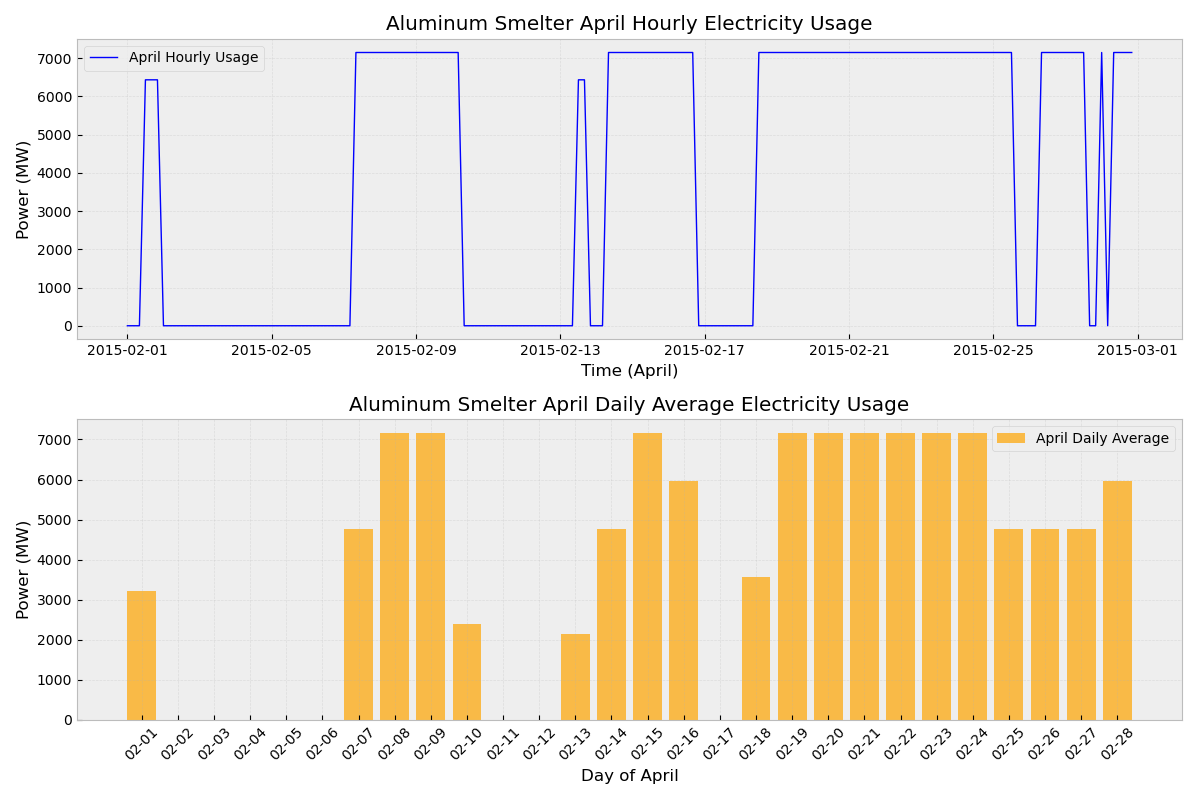
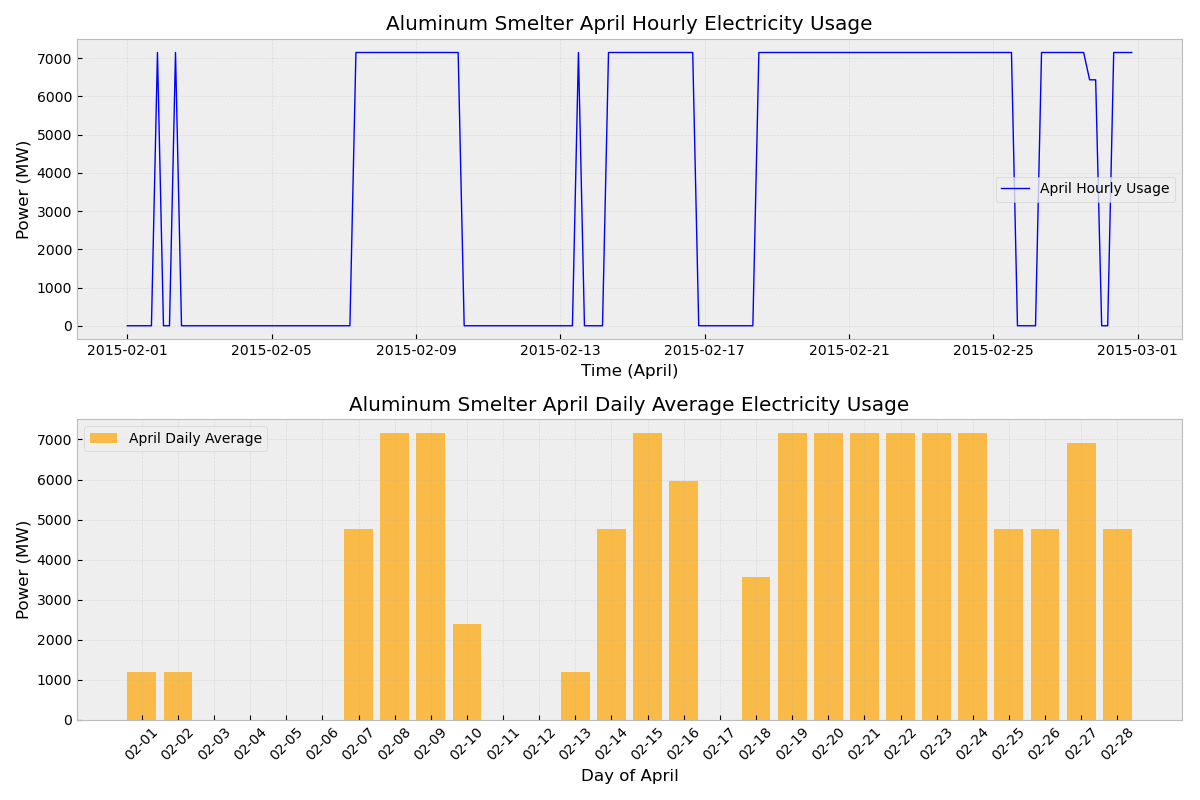
更新到0.27.1

diff --git a/examples/scripts/capacity_expansion_planning_pmin.py b/examples/scripts/capacity_expansion_planning_pmin.py
@@ -1,4 +1,5 @@
-# capacity_expansion_planning.py
+# capacity_expansion_planning_pmin_fixed.py
+# 修复版本兼容性问题的脚本
 
 import matplotlib.pyplot as plt
 import pandas as pd
@@ -234,14 +235,9 @@ def add_other_components(n, al_p_nom, p_min_pu):
         p_nom=al_p_nom,  # 使用计算得到的容量, MW
         efficiency=1, 
         # capital_cost=CONFIG["al_capital_cost"] * al_p_nom, # $  
-        start_up_cost=CONFIG["al_start_up_cost"] * al_p_nom, # $
-        start_up_time=24,  # 设置为24小时，使每24小时共享一个启停决策变量
+        start_up_cost=0*CONFIG["al_start_up_cost"] * al_p_nom, # $
         committable=True,
         p_min_pu=p_min_pu,
-        ramp_limit_up=1.0,  # 添加爬坡限制
-        ramp_limit_down=1.0,  # 添加爬坡限制
-        ramp_limit_start_up=1.0,  # 添加爬坡限制
-        ramp_limit_shut_down=1.0,  # 添加爬坡限制
     )
     print(CONFIG["al_start_up_cost"] * al_p_nom)
     print(CONFIG["al_start_up_cost"], al_p_nom)
@@ -265,6 +261,35 @@ def add_other_components(n, al_p_nom, p_min_pu):
         sense="<=",
         constant=CONFIG["al_co2_limit"], # kgCO2/MW/year -> kgCO2/MW/hour
     )
+
+def safe_optimize(n, solver_name, solver_options):
+    """安全地执行优化，处理版本兼容性问题"""
+    try:
+        # 尝试使用新版本的优化方法
+        n.optimize(solver_name=solver_name, **solver_options)
+    except AttributeError as e:
+        if "'Model' object has no attribute 'objective_value'" in str(e):
+            print("检测到版本兼容性问题，尝试修复...")
+            # 手动设置目标值
+            if hasattr(n, '_model') and n._model is not None:
+                # 尝试从模型中获取目标值
+                try:
+                    if hasattr(n._model, 'objective_value'):
+                        n.objective = n._model.objective_value
+                    elif hasattr(n._model, 'objective'):
+                        n.objective = n._model.objective
+                    else:
+                        # 如果都没有，设置一个默认值
+                        print("警告：无法获取目标值，使用默认值")
+                        n.objective = 0.0
+                except:
+                    print("警告：无法获取目标值，使用默认值")
+                    n.objective = 0.0
+            else:
+                print("警告：无法获取目标值，使用默认值")
+                n.objective = 0.0
+        else:
+            raise e
 
 def print_results_table(results):
     """将结果整理成表格形式输出"""
@@ -330,8 +355,8 @@ def main(override_file="data/override_component_attrs", config_file="config.yaml
             # 创建并优化网络
             n = create_network(costs, ts, p_min_pu, CONFIG["al_excess_rate"], override_file)
             
-            # 使用配置文件中的求解器设置
-            n.optimize(solver_name=solver_name, **solver_options)
+            # 使用安全优化函数
+            safe_optimize(n, solver_name, solver_options)
             
             # 在优化后调用启动分析
             analyze_startups(n)
@@ -360,10 +385,16 @@ def main(override_file="data/override_component_attrs", config_file="config.yaml
                 # 转换为GWh
                 load_shedding_data = {k: v * CONFIG["resolution"] / 1e3 for k, v in load_shedding_data.items()}
             
+            # 安全获取目标值
+            try:
+                objective_value = n.objective if hasattr(n, 'objective') else 0.0
+            except:
+                objective_value = 0.0
+            
             # 保存结果
             year_results[p_min_pu] = {
                 'p_min_pu': p_min_pu,
-                'system_cost': CONFIG["original_cost"] - n.objective * 1e-9, # Billion
+                'system_cost': CONFIG["original_cost"] - objective_value * 1e-9, # Billion
                 'generator_capacities': n.generators.p_nom_opt * 1e-3, # GW
                 'storage_capacities': n.storage_units.p_nom_opt * 1e-3, # GW
                 'al_capacity': CONFIG["al_demand"] * (1 + CONFIG["al_excess_rate"]),
@@ -396,10 +427,9 @@ def main(override_file="data/override_component_attrs", config_file="config.yaml
 
 if __name__ == "__main__":
     # 可以通过命令行参数指定override文件和config文件
-    parser = argparse.ArgumentParser(description='Capacity expansion planning with aluminum smelter')
+    parser = argparse.ArgumentParser(description='Capacity expansion planning with aluminum smelter (Fixed Version)')
     parser.add_argument('--override', type=str, default="data/override_component_attrs", help='Path to override file (default: data/override_component_attrs)')
     parser.add_argument('--config', type=str, default="config.yaml", help='Path to config file (default: config.yaml)')
     args = parser.parse_args()
     
-    main(override_file=args.override, config_file=args.config)
-
+    main(override_file=args.override, config_file=args.config) 

diff --git a/examples/scripts/config.py b/examples/scripts/config.py
@@ -31,7 +31,7 @@ CONFIG = {
     
     # 电解槽启动成本, 计算方式：
     # $65M ~ 450,000 mt per year
-    "al_start_up_cost": 16000000 * 7.3 / 7.55 * 6.8, # euro/MW
+    "al_start_up_cost": 16000 * 7.3 / 7.55 * 6.8, # euro/MW
     "al_p_min_pu": [0.9],  # 改回列表以支持pmin脚本
     # 启动时间
     # "al_start_up_time": 24, # 小时
